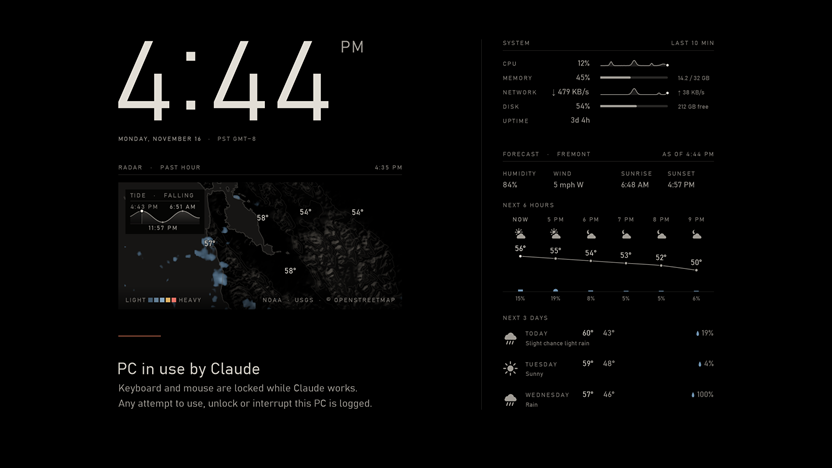
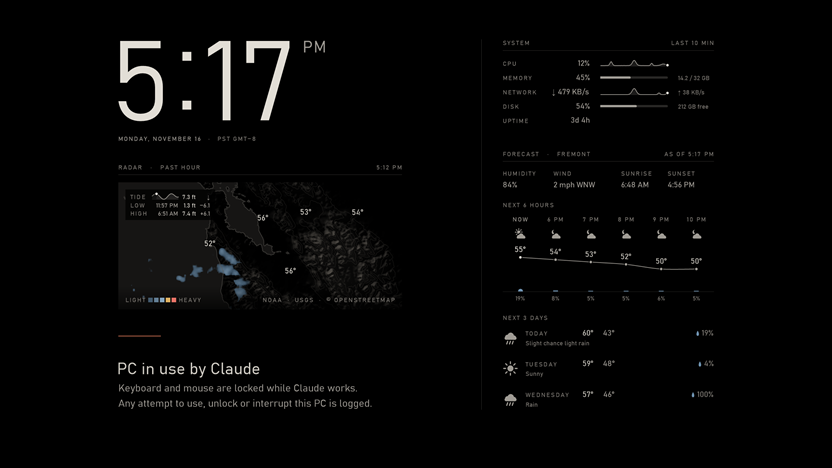
Curtain card: the screenshot with the tide as a small table
The curtain's tide inset is now a compact table (the height now, rising or
falling, and the next low and high with times, heights and changes), so
the card's screenshot is rendered again: the Bay Area at 5:17 PM, home
still left off the map. The alt text says "tide table".

diff --git a/index.html b/index.html
@@ -140,8 +140,8 @@
             <p class="artifact-tag st-label">Open source tool</p>
             <h3 class="st-h3">Privacy Curtain</h3>
             <figure class="artifact-shot">
-              <a class="shot" href="assets/privacy-curtain.png" data-size="2560x1440" data-caption="Privacy Curtain: the screen at 2560 by 1440, with the Bay Area's weather." data-alt="The Privacy Curtain on a 2560 by 1440 screen: the time and date, a radar map of the San Francisco Bay Area with its hills shaded and contoured, a few light showers off the coast, temperatures around the Bay and a tide chart in the corner, the message &ldquo;PC in use by Claude&rdquo;, ten-minute CPU and network graphs, memory and disk bars, and the forecast with humidity, wind, sunrise and sunset, the next six hours and the next three days.">
-                <img src="assets/privacy-curtain-thumb.png" width="832" height="468" loading="lazy" decoding="async" alt="The Privacy Curtain on a widescreen monitor: a large clock, a radar map of the San Francisco Bay Area over shaded hills, with temperatures and a tide chart, and the message &ldquo;PC in use by Claude&rdquo; on the left; live system stats and the forecast on the right."><span class="visually-hidden"> Opens a larger view.</span>
+              <a class="shot" href="assets/privacy-curtain.png" data-size="2560x1440" data-caption="Privacy Curtain: the screen at 2560 by 1440, with the Bay Area's weather." data-alt="The Privacy Curtain on a 2560 by 1440 screen: the time and date, a radar map of the San Francisco Bay Area with its hills shaded and contoured, a few light showers along the coast, temperatures around the Bay and a tide table in the corner, the message &ldquo;PC in use by Claude&rdquo;, ten-minute CPU and network graphs, memory and disk bars, and the forecast with humidity, wind, sunrise and sunset, the next six hours and the next three days.">
+                <img src="assets/privacy-curtain-thumb.png" width="832" height="468" loading="lazy" decoding="async" alt="The Privacy Curtain on a widescreen monitor: a large clock, a radar map of the San Francisco Bay Area over shaded hills, with temperatures and a tide table, and the message &ldquo;PC in use by Claude&rdquo; on the left; live system stats and the forecast on the right."><span class="visually-hidden"> Opens a larger view.</span>
               </a>
               <figcaption class="st-small">Rendered by the curtain's own preview mode, since the real one hides from screenshots.</figcaption>
             </figure>
